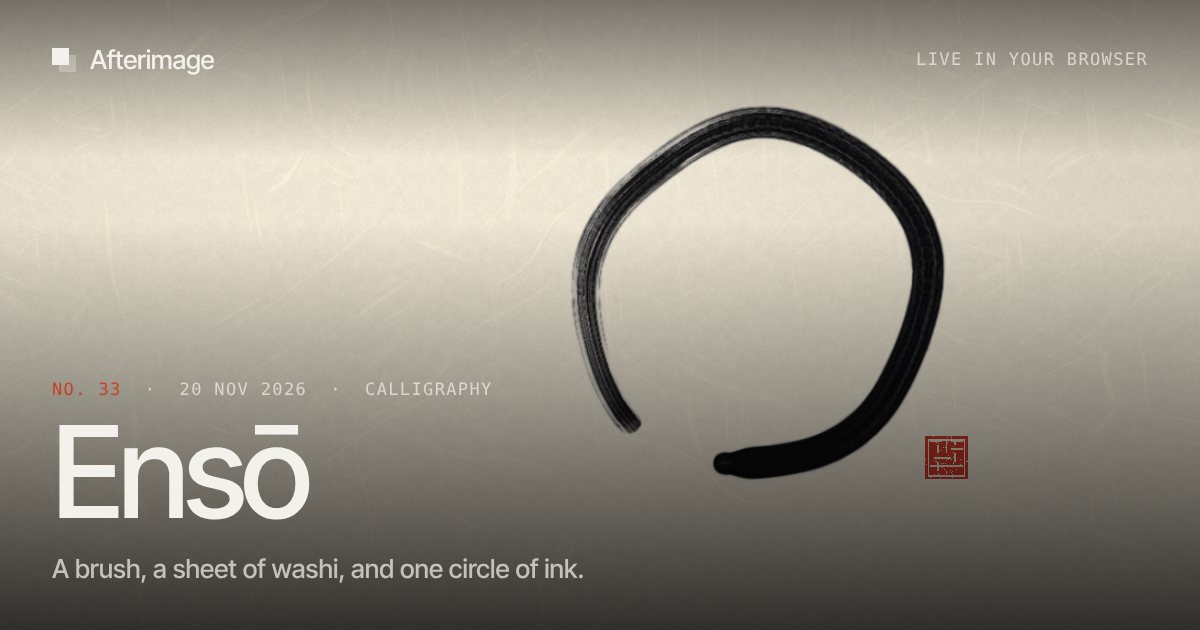
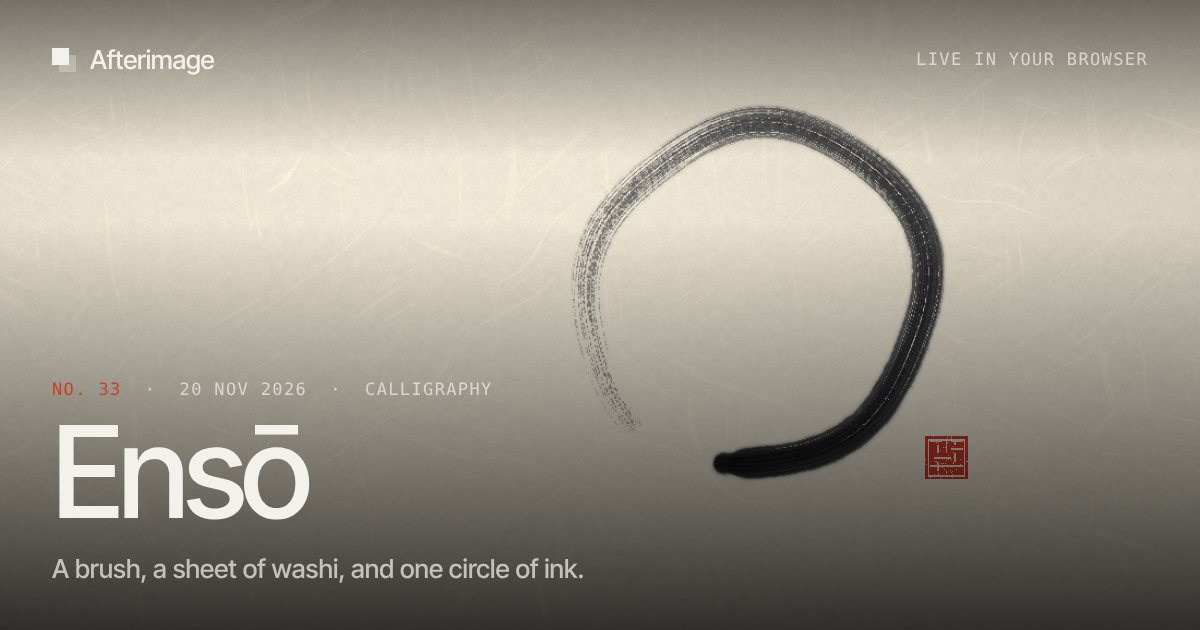
Ensō: inkier sumi, no black blow-up, and drag effects stop fighting the feed on touch
Ink
- The water and pigment exchange ran above the explicit diffusion limit
  (up to 0.34 per neighbour, four neighbours), so a wet patch could ring and
  grow into an expanding black block. Every pairwise rate is now capped so the
  total stays under 1, and the output is clamped.
- The fade multiplier just under 1 lost a half-float step per frame on
  rgba16float, greying a black stroke in about twenty seconds. Ink no longer
  fades; the sheet is still lifted.
- Pigment rides the water and is filtered out except along the fibres, so
  bleeds feather instead of blurring; the brush wets a little past its ink.
- The brush tops ink up instead of setting it, discounting what is already in
  the paper, so overpainting deepens toward black without flooding. Loaded ink
  starts near black and thins with the load; a drying brush only catches the
  paper's tooth (kasure); edges are ragged; bristles streak.
- Present treats ink as a stain (Beer-Lambert), so thin ink is a grey wash.

Mobile
- Small resizes (address bar) no longer wipe the sheet; a painted sheet stays
  up 18 s instead of 7 s before it is lifted.
- New HeroEffect.touch = "drag" (Ensō, Folio, Calibre, Ink, Misted,
  Thermochrome, Lido, Survey): the canvas keeps every drag on touch, a quick
  vertical flick still scrolls the feed one screen, and a second finger no
  longer teleports the pointer. Hover effects keep pan-y.

Claude-Session: https://claude.ai/code/session_01NZcfqFRwmnN7mUtWss7Hg6

Changed region(s): [[0.4625, 0.1508, 0.8017, 0.6937], [0.6475, 0.6937, 0.6783, 0.7238]]

diff --git a/src/effects/index.ts b/src/effects/index.ts
@@ -311,6 +311,7 @@ const ENTRIES: readonly Entry[] = [
   },
   {
     id: "ink",
+    touch: "drag",
     name: "Ink",
     category: "Fluid",
     tagline: "Drag through the fluid and watch colour curl behind you.",
@@ -884,6 +885,7 @@ const ENTRIES: readonly Entry[] = [
   },
   {
     id: "misted",
+    touch: "drag",
     // Heavy per pixel on a retina screen; capped so laptop GPUs stay calm.
     maxDpr: 1.25,
     name: "Misted",
@@ -1077,6 +1079,7 @@ const ENTRIES: readonly Entry[] = [
   },
   {
     id: "thermo",
+    touch: "drag",
     name: "Thermochrome",
     published: "2026-11-09",
     category: "Heat",
@@ -1218,6 +1221,7 @@ const ENTRIES: readonly Entry[] = [
   },
   {
     id: "lido",
+    touch: "drag",
     name: "Lido",
     published: "2026-11-12",
     category: "Caustics",
@@ -1267,6 +1271,7 @@ const ENTRIES: readonly Entry[] = [
   },
   {
     id: "survey",
+    touch: "drag",
     name: "Survey",
     published: "2026-11-13",
     category: "Cartography",
@@ -1511,6 +1516,7 @@ const ENTRIES: readonly Entry[] = [
   },
   {
     id: "folio",
+    touch: "drag",
     name: "Folio",
     published: "2026-11-18",
     category: "Paper",
@@ -1557,6 +1563,7 @@ const ENTRIES: readonly Entry[] = [
   },
   {
     id: "calibre",
+    touch: "drag",
     // Many layered shapes per pixel; capped so laptop GPUs stay calm.
     maxDpr: 1.25,
     name: "Calibre",
@@ -1605,6 +1612,7 @@ const ENTRIES: readonly Entry[] = [
   },
   {
     id: "enso",
+    touch: "drag",
     name: "Ensō",
     published: "2026-11-20",
     category: "Calligraphy",
@@ -1613,7 +1621,7 @@ const ENTRIES: readonly Entry[] = [
       "A sheet of warm washi paper with long fibres in it. An unseen hand paints an ensō, the Zen circle made in one stroke: heavy and wet where the brush first presses down, thinning as it travels, and running out of ink at the end so the last of it splits into dry bristle marks. A vermilion seal goes on beside it, and after a while the sheet is lifted and a new circle begins. Press and drag to paint yourself. A slow hand presses the brush harder and lays a wide, wet line; a quick one lifts it to the tip, and as the ink runs out along a stroke the bristles split. Ink sets how dark the ink is, and Brush the size of the brush.",
     explanation: [
       { title: "Model a brush", body: "Each frame the brush stamps one segment from where it was to where it is. Across the segment, the brush is split into 38 bristles, and each one keeps painting only while the brush still holds more ink than that bristle's own threshold, so a running-dry brush leaves streaks that follow the stroke." },
-      { title: "Let the ink soak", body: "The sheet keeps wet pigment, settled pigment and water per texel. Water spreads a little and dries; wet pigment moves only between wet texels, faster along the paper's fibres, and settles as the water goes, a little more at the drying edge." },
+      { title: "Let the ink soak", body: "The sheet keeps suspended pigment, settled pigment and water per texel. Water wicks from wet paper into dry, faster along the fibres, and carries pigment with it while the fibres filter some out, so every wet stroke bleeds into a pale grey feather. Pigment settles as the water goes, a little more at the drying edge." },
       { title: "Press and speed", body: "Pressure comes from how slowly the hand moves: slow strokes press the brush down, wide and wet; quick ones lift it to a thin, drier tip. The ink load drops with the distance travelled, so long strokes end dry." },
       { title: "Paint the circle", body: "The unseen hand follows one turn of a slightly uneven circle with an ease in and out, pressing hard at the start and lifting toward the end, which leaves the gap and dry tail an ensō is known for." },
     ],
@@ -1628,8 +1636,8 @@ const ENTRIES: readonly Entry[] = [
     technical: {
       insight: "Dry brush is just a threshold per bristle: give every bristle its own ink threshold and let the brush's load fall along the stroke, and the streaks appear by themselves.",
       pipeline: [
-        "fragment · ink step, up to 1100 px on the long edge, rgba16float ping-pong: water spread and drying, wet pigment moving along paper permeability, settling with a drying-edge boost, and the brush segment stamped with per-bristle ink",
-        "fragment · washi with fibres and grain, ink from grey wash to black, wet sheen, vermilion seal, brush-tip shadow under the hover",
+        "fragment · ink step, up to 1100 px on the long edge, rgba16float ping-pong: water wicking over eight neighbours under the stability limit, pigment carried and filtered by the flow, settling with a drying-edge boost, and the brush segment stamped with per-bristle ink",
+        "fragment · washi with fibres and grain, ink as a stain from grey wash to black, wet sheen, vermilion seal, brush-tip shadow under the hover",
       ],
       techniques: [
         "ping-pong simulation",
@@ -1640,7 +1648,7 @@ const ENTRIES: readonly Entry[] = [
         "procedural paper",
       ],
       notes:
-        "Each texel holds wet pigment, settled pigment and water. Water moves between neighbours in proportion to their difference, scaled by the paper's permeability, and evaporates by about 40 percent a second. Wet pigment moves the same way but only between texels that are both wet, so it stops at the water's edge, and permeability is higher along the fibres; one module shares the fibre pattern between the sim and the picture. Pigment settles at a slow rate while wet, quickly once dry, and faster where the water's gradient is steep, which leaves a darker rim on a bloom. The brush is a capsule from last frame's point to this frame's; a pixel's signed distance across it picks one of 38 bristles, and a bristle inks while the load minus its hashed threshold, plus low-frequency noise along the stroke, stays above zero. Width follows pressure, which eases toward a value set by hand speed, and grows over the first part of a stroke from the tip. The load falls with distance. Idle, the hand paints an ensō 2.6 seconds long, waits nine seconds, fades the sheet in about a second and a half and starts another.",
+        "Each texel holds suspended pigment, settled pigment, water and the paper's wicking rate, which is worked out once when the sheet is laid. Water flows between each texel and eight others, its four neighbours and four more two texels out on the diagonals, so a bleed travels far and spreads round rather than square, in proportion to the difference, scaled by both texels' wicking, and every pairwise rate is held under the explicit diffusion limit, so the sheet cannot blow up into a growing black block. Pigment rides the flow at the concentration of the side it leaves, and the sheet filters most of it out except along the fibres, so a bleed feathers into fine grey hairs instead of blurring. Pigment settles slowly while wet, at once when dry, and faster at the drying front, which leaves a faint darker rim. The brush tops ink up rather than adding it, discounting what the paper already holds, so going over a stroke deepens it toward black without flooding. The picture treats ink as a stain, so light falls off exponentially with pigment: thin ink is a cool grey wash and only loaded or layered ink is black, and thin washes gather in the paper's grain. The brush is a capsule from last frame's point to this frame's; a pixel's signed distance across it picks one of 38 bristles, and a bristle inks while the load minus its hashed threshold, plus low-frequency noise along the stroke, stays above zero. As the load falls the brush only touches the tops of the paper's tooth, which breaks the dry end into specks of bare paper. Width follows pressure, which eases toward a value set by hand speed. On touch the canvas keeps drags in every direction, and a quick vertical flick moves the feed instead. Idle, the hand paints an ensō 2.6 seconds long, waits nine seconds, fades the sheet in about a second and a half and starts another; a sheet you painted on is left for eighteen seconds.",
       source: "src/effects/enso",
     },
     accent: "#c7402a",

diff --git a/src/lib/stage.ts b/src/lib/stage.ts
@@ -202,17 +202,82 @@ export async function mountStage(
     detachPointer: () => {},
   }
 
-  // Vertical swipes stay the browser's so the page remains scrollable on touch;
-  // horizontal and diagonal drags become pointer events that drive the effect.
-  canvas.style.touchAction = "pan-y"
+  // Touch. For most effects vertical swipes stay the browser's, so the feed
+  // scrolls, and horizontal or diagonal drags drive the effect. An effect that
+  // is painted or grabbed (`touch: "drag"`) needs drags in every direction, so
+  // its canvas keeps them all, and the first moments of a touch decide what it
+  // was: a quick vertical flick moves the feed a screen, anything else presses.
+  const applyTouchAction = () => {
+    canvas.style.touchAction = entry.effect.touch === "drag" ? "none" : "pan-y"
+  }
+  applyTouchAction()
+
+  /** A flick has to cover this many CSS pixels, mostly vertically... */
+  const FLICK_PX = 28
+  /** ...within this long. Later than that, or sideways, the touch presses. */
+  const DECIDE_MS = 100
+  let tapping = false
+  let touch: { id: number; x0: number; y0: number; t0: number; mode: "pending" | "press" | "swipe"; timer: number } | null = null
 
   const updateFromEvent = (ev: PointerEvent) => {
+    // A second finger on a drag effect would teleport the brush.
+    if (touch && ev.pointerType === "touch" && ev.pointerId !== touch.id) return
+    if (touch?.mode === "swipe") return
     const r = canvas.getBoundingClientRect()
     if (r.width === 0 || r.height === 0) return
     entry.mouse = [(ev.clientX - r.left) / r.width, (ev.clientY - r.top) / r.height]
     entry.pointer = 1
   }
+  const beginPress = () => {
+    if (!touch || touch.mode !== "pending") return
+    window.clearTimeout(touch.timer)
+    touch.mode = "press"
+    entry.pressed = true
+  }
+  const scroller = (): HTMLElement | null => {
+    for (let p = canvas.parentElement; p; p = p.parentElement) {
+      const o = getComputedStyle(p).overflowY
+      if ((o === "auto" || o === "scroll") && p.scrollHeight > p.clientHeight) return p
+    }
+    return null
+  }
+  const swipe = (dy: number) => {
+    if (!touch) return
+    window.clearTimeout(touch.timer)
+    touch.mode = "swipe"
+    entry.gesture++
+    const s = scroller()
+    // Snap points do the rest: one screen up or down, the way a swipe would.
+    s?.scrollBy({ top: (dy < 0 ? 1 : -1) * s.clientHeight, behavior: "smooth" })
+  }
+  const endTouch = (tap: boolean) => {
+    if (!touch) return
+    window.clearTimeout(touch.timer)
+    const wasPending = touch.mode === "pending"
+    touch = null
+    if (tap && wasPending) {
+      // A tap shorter than the decision window still touches the paper once.
+      entry.pressed = true
+      tapping = true
+      window.setTimeout(() => {
+        tapping = false
+        if (!touch) entry.pressed = false
+      }, 50)
+    } else {
+      entry.pressed = false
+    }
+  }
+
   const onPointerDown = (ev: PointerEvent) => {
+    if (ev.pointerType === "touch" && entry.effect.touch === "drag") {
+      if (touch) return
+      canvas.setPointerCapture(ev.pointerId)
+      entry.gesture++
+      touch = { id: ev.pointerId, x0: ev.clientX, y0: ev.clientY, t0: performance.now(), mode: "pending", timer: 0 }
+      touch.timer = window.setTimeout(beginPress, DECIDE_MS)
+      updateFromEvent(ev)
+      return
+    }
     // Capture keeps the stream when a drag leaves the canvas, and makes a bare
     // tap a poke instead of a no-op.
     canvas.setPointerCapture(ev.pointerId)
@@ -220,17 +285,36 @@ export async function mountStage(
     entry.pressed = true
     updateFromEvent(ev)
   }
+  const onPointerMove = (ev: PointerEvent) => {
+    if (touch && ev.pointerId === touch.id && touch.mode === "pending") {
+      const dx = ev.clientX - touch.x0
+      const dy = ev.clientY - touch.y0
+      const vertical = Math.abs(dy) > 1.5 * Math.abs(dx)
+      if (vertical && Math.abs(dy) > FLICK_PX) {
+        if (performance.now() - touch.t0 < DECIDE_MS) swipe(dy)
+        else beginPress()
+      } else if (!vertical && Math.hypot(dx, dy) > 10) {
+        beginPress()
+      }
+    }
+    updateFromEvent(ev)
+  }
   const onPointerUp = (ev: PointerEvent) => {
-    entry.pressed = false
+    if (touch && ev.pointerId === touch.id) endTouch(ev.type === "pointerup")
+    else if (!touch) entry.pressed = false
     if (canvas.hasPointerCapture(ev.pointerId)) canvas.releasePointerCapture(ev.pointerId)
   }
   canvas.addEventListener("pointerdown", onPointerDown, { passive: true })
-  canvas.addEventListener("pointermove", updateFromEvent, { passive: true })
+  canvas.addEventListener("pointermove", onPointerMove, { passive: true })
   canvas.addEventListener("pointerup", onPointerUp, { passive: true })
   canvas.addEventListener("pointercancel", onPointerUp, { passive: true })
   // A capture lost any other way (the window losing focus mid-drag) is a release too.
-  const onLostCapture = () => {
-    entry.pressed = false
+  const onLostCapture = (ev: PointerEvent) => {
+    if (touch) {
+      if (ev.pointerId === touch.id) endTouch(false)
+      return
+    }
+    if (!tapping) entry.pressed = false
   }
   canvas.addEventListener("lostpointercapture", onLostCapture, { passive: true })
   // Leaving ends the gesture, so coming back somewhere else starts a new one.
@@ -239,9 +323,10 @@ export async function mountStage(
   }
   canvas.addEventListener("pointerleave", onPointerLeave, { passive: true })
   entry.detachPointer = () => {
+    if (touch) window.clearTimeout(touch.timer)
     canvas.removeEventListener("pointerleave", onPointerLeave)
     canvas.removeEventListener("pointerdown", onPointerDown)
-    canvas.removeEventListener("pointermove", updateFromEvent)
+    canvas.removeEventListener("pointermove", onPointerMove)
     canvas.removeEventListener("pointerup", onPointerUp)
     canvas.removeEventListener("pointercancel", onPointerUp)
     canvas.removeEventListener("lostpointercapture", onLostCapture)
@@ -274,6 +359,7 @@ export async function mountStage(
       if (next.id === entry.effect.id) return
       entry.instance.dispose?.()
       entry.effect = next
+      applyTouchAction()
       entry.instance = next.create({ gpu, target: surf, quality: opts.quality })
       entry.instance.resize?.(surf.size[0], surf.size[1])
       entry.controls = Object.fromEntries(next.controls.map((c) => [c.key, c.value]))

diff --git a/src/effects/enso/pipeline.ts b/src/effects/enso/pipeline.ts
@@ -68,6 +68,8 @@ export function createEnso(setup: EffectSetup, src: EnsoSources): EffectInstance
 
   // The unseen hand.
   let lastActive = -10
+  /** Someone painted on this sheet, so it is left up longer before lifting. */
+  let painted = false
   let autoStart = 0.35
   let autoSeed = 0
   let clearing = -1
@@ -97,6 +99,7 @@ export function createEnso(setup: EffectSetup, src: EnsoSources): EffectInstance
     let press = pressure
 
     if (pressed) {
+      painted = true
       autoStart = -1
       clearing = -1
       down = true
@@ -133,16 +136,21 @@ export function createEnso(setup: EffectSetup, src: EnsoSources): EffectInstance
         clearing = t + 9
       }
     }
-    if (!down && autoStart < 0 && clearing < 0 && t - lastActive > 7) clearing = t + 2
+    if (!down && autoStart < 0 && clearing < 0 && t - lastActive > (painted ? 18 : 7)) clearing = t + 2
 
+    // Dry ink does not fade; the sheet is lifted instead. Any multiplier just
+    // under 1 would be worse than useless: a half-float target can round each
+    // write down by one step, and at 60 frames a second that greys a black
+    // stroke within twenty seconds.
+    let fade = 1
     // Lifting the sheet: the ink fades out quickly, then the hand paints again.
-    let fade = Math.exp(-dt / 90)
     if (clearing >= 0 && t >= clearing) {
       fade = Math.exp(-dt / 0.35)
       if (t >= clearing + 1.6) {
         clearing = -1
         autoStart = t + 0.4
         needInit = true
+        painted = false
       }
     }
 
@@ -203,6 +211,11 @@ export function createEnso(setup: EffectSetup, src: EnsoSources): EffectInstance
     resize(width, height) {
       const [w, h] = dims(width, height)
       if (w === lastDims[0] && h === lastDims[1]) return
+      // A phone's address bar showing or hiding changes the height a little.
+      // Starting the sheet over for that wiped whatever was painted, so small
+      // changes keep the grid and let it stretch a few percent instead.
+      const near = (x: number, y: number) => Math.abs(x - y) / Math.max(y, 1) < 0.2
+      if (near(w, lastDims[0]) && near(h, lastDims[1]) && !needInit) return
       lastDims = [w, h]
       state.read.resize([w, h])
       state.write.resize([w, h])

diff --git a/src/effects/types.ts b/src/effects/types.ts
@@ -140,5 +140,13 @@ export interface HeroEffect {
    * where a full retina buffer costs far more than it shows.
    */
   readonly maxDpr?: number
+  /**
+   * `"drag"` for an effect whose interaction is pressing and dragging in any
+   * direction (painting, grabbing a corner, winding). On touch, the canvas
+   * then keeps every drag for itself instead of leaving vertical ones to the
+   * feed, and a quick vertical flick still moves to the next screen. Leave it
+   * out for hover effects: there a vertical swipe simply scrolls.
+   */
+  readonly touch?: "drag"
   create(setup: EffectSetup): EffectInstance
 }
